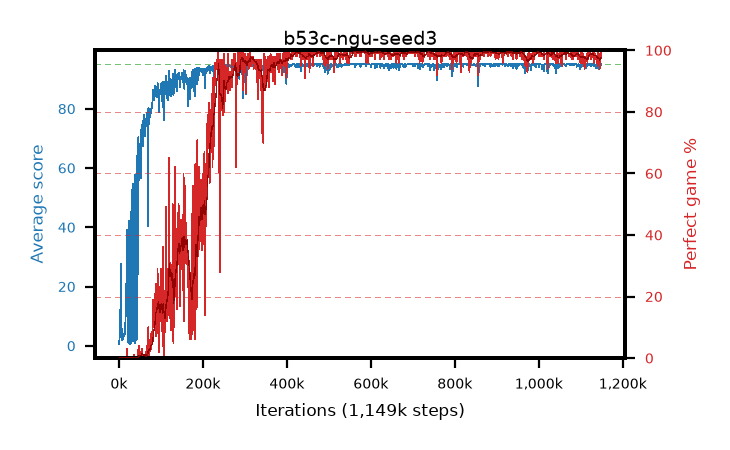
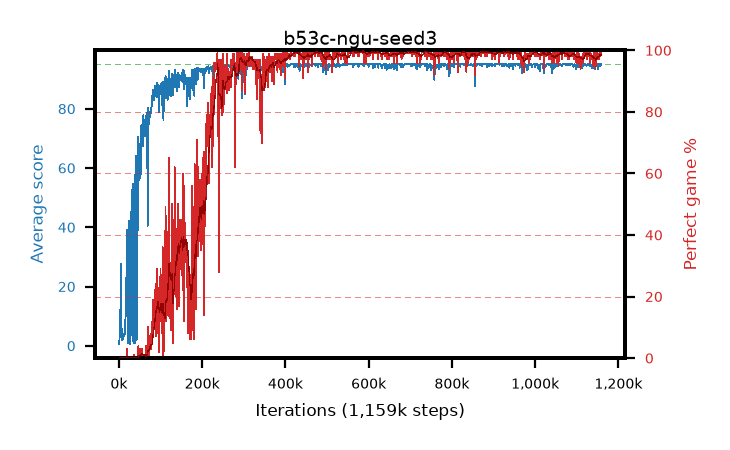
live pictures of 4 arm(s)

diff --git a/results/b53d-ngu-seed4/b53d-ngu-seed4.md b/results/b53d-ngu-seed4/b53d-ngu-seed4.md
@@ -1,6 +1,6 @@
 # b53d-ngu-seed4
 
-step **1,159,000** · 1159 evals · trailing **94.73** · peak **94.94** @1,040,000 · sef **73.9** · best30 **99.7** @1,024,000
+step **1,169,000** · 1169 evals · trailing **94.69** · peak **94.94** @1,040,000 · sef **74.2** · best30 **99.7** @1,024,000
 
 ## Config
 
@@ -80,15 +80,15 @@ step **1,159,000** · 1159 evals · trailing **94.73** · peak **94.94** @1,040,
 | 2000 | 2.39 | 1.47 | 0.0 | 8.0 | 1.286 | 0.0 | 0.4 |
 | 3000 | 6.99 | 3.31 | 0.0 | 25.0 | 5.34 | 0.0 | 0.4 |
 | ... | ... | ... | ... | ... | ... | ... | ... |
-| 1148000 | 94.95 | 94.75 | 90.0 | 95.0 | 192.656 | 99.0 | 0.4 |
-| 1149000 | 95.0 | 94.76 | 95.0 | 95.0 | 193.69 | 100.0 | 0.4 |
-| 1150000 | 94.59 | 94.75 | 54.0 | 95.0 | 192.301 | 99.0 | 0.4 |
-| 1151000 | 95.0 | 94.77 | 95.0 | 95.0 | 193.703 | 100.0 | 0.4 |
-| 1152000 | 94.47 | 94.77 | 42.0 | 95.0 | 192.186 | 99.0 | 0.4 |
-| 1153000 | 94.97 | 94.79 | 92.0 | 95.0 | 192.632 | 99.0 | 0.4 |
-| 1154000 | 93.77 | 94.78 | 18.0 | 95.0 | 189.354 | 97.0 | 0.4 |
-| 1155000 | 94.85 | 94.8 | 80.0 | 95.0 | 192.522 | 99.0 | 0.4 |
-| 1156000 | 94.54 | 94.79 | 51.0 | 95.0 | 191.216 | 98.0 | 0.4 |
-| 1157000 | 94.17 | 94.76 | 19.0 | 95.0 | 190.799 | 98.0 | 0.4 |
 | 1158000 | 94.57 | 94.75 | 52.0 | 95.0 | 192.274 | 99.0 | 0.4 |
 | 1159000 | 94.51 | 94.73 | 46.0 | 95.0 | 192.164 | 99.0 | 0.4 |
+| 1160000 | 95.0 | 94.73 | 95.0 | 95.0 | 193.713 | 100.0 | 0.4 |
+| 1161000 | 94.96 | 94.73 | 91.0 | 95.0 | 192.628 | 99.0 | 0.4 |
+| 1162000 | 94.56 | 94.73 | 51.0 | 95.0 | 192.23 | 99.0 | 0.4 |
+| 1163000 | 94.95 | 94.74 | 90.0 | 95.0 | 192.604 | 99.0 | 0.4 |
+| 1164000 | 94.73 | 94.76 | 72.0 | 95.0 | 191.434 | 98.0 | 0.4 |
+| 1165000 | 94.94 | 94.76 | 89.0 | 95.0 | 192.613 | 99.0 | 0.4 |
+| 1166000 | 93.47 | 94.71 | 14.0 | 95.0 | 190.07 | 98.0 | 0.4 |
+| 1167000 | 94.17 | 94.69 | 12.0 | 95.0 | 191.894 | 99.0 | 0.4 |
+| 1168000 | 94.74 | 94.68 | 76.0 | 95.0 | 191.438 | 98.0 | 0.4 |
+| 1169000 | 94.94 | 94.69 | 92.0 | 95.0 | 191.606 | 98.0 | 0.4 |

diff --git a/results/b53a-ngu-seed1/b53a-ngu-seed1.md b/results/b53a-ngu-seed1/b53a-ngu-seed1.md
@@ -1,6 +1,6 @@
 # b53a-ngu-seed1
 
-step **1,159,000** · 1159 evals · trailing **94.69** · peak **94.96** @643,000 · sef **75.8** · best30 **99.7** @643,000
+step **1,169,000** · 1169 evals · trailing **94.6** · peak **94.96** @643,000 · sef **76.0** · best30 **99.7** @643,000
 
 ## Config
 
@@ -80,15 +80,15 @@ step **1,159,000** · 1159 evals · trailing **94.69** · peak **94.96** @643,00
 | 2000 | 8.43 | 4.84 | 0.0 | 21.0 | 7.201 | 0.0 | 0.4 |
 | 3000 | 8.52 | 6.07 | 0.0 | 26.0 | 5.525 | 0.0 | 0.4 |
 | ... | ... | ... | ... | ... | ... | ... | ... |
-| 1148000 | 95.0 | 94.76 | 95.0 | 95.0 | 193.689 | 100.0 | 0.4 |
-| 1149000 | 94.95 | 94.76 | 90.0 | 95.0 | 192.655 | 99.0 | 0.4 |
-| 1150000 | 95.0 | 94.77 | 95.0 | 95.0 | 193.7 | 100.0 | 0.4 |
-| 1151000 | 93.73 | 94.72 | 15.0 | 95.0 | 189.354 | 97.0 | 0.4 |
-| 1152000 | 94.18 | 94.7 | 30.0 | 95.0 | 189.8 | 97.0 | 0.4 |
-| 1153000 | 94.97 | 94.72 | 92.0 | 95.0 | 192.679 | 99.0 | 0.4 |
-| 1154000 | 94.97 | 94.72 | 92.0 | 95.0 | 192.663 | 99.0 | 0.4 |
-| 1155000 | 94.19 | 94.72 | 16.0 | 95.0 | 190.799 | 98.0 | 0.4 |
-| 1156000 | 94.53 | 94.7 | 58.0 | 95.0 | 190.198 | 97.0 | 0.4 |
-| 1157000 | 95.0 | 94.7 | 95.0 | 95.0 | 193.689 | 100.0 | 0.4 |
 | 1158000 | 94.63 | 94.69 | 58.0 | 95.0 | 192.287 | 99.0 | 0.4 |
 | 1159000 | 94.93 | 94.69 | 92.0 | 95.0 | 190.511 | 97.0 | 0.4 |
+| 1160000 | 94.18 | 94.66 | 16.0 | 95.0 | 189.733 | 97.0 | 0.4 |
+| 1161000 | 94.92 | 94.66 | 91.0 | 95.0 | 190.513 | 97.0 | 0.4 |
+| 1162000 | 94.75 | 94.65 | 76.0 | 95.0 | 191.429 | 98.0 | 0.4 |
+| 1163000 | 94.47 | 94.67 | 62.0 | 95.0 | 187.996 | 95.0 | 0.4 |
+| 1164000 | 94.53 | 94.65 | 83.0 | 95.0 | 184.892 | 92.0 | 0.4 |
+| 1165000 | 94.73 | 94.64 | 86.0 | 95.0 | 189.302 | 96.0 | 0.4 |
+| 1166000 | 94.49 | 94.63 | 58.0 | 95.0 | 190.153 | 97.0 | 0.4 |
+| 1167000 | 94.61 | 94.62 | 56.0 | 95.0 | 192.257 | 99.0 | 0.4 |
+| 1168000 | 94.82 | 94.63 | 89.0 | 95.0 | 189.452 | 96.0 | 0.4 |
+| 1169000 | 93.93 | 94.6 | 15.0 | 95.0 | 188.487 | 96.0 | 0.4 |

diff --git a/results/b53c-ngu-seed3/b53c-ngu-seed3.md b/results/b53c-ngu-seed3/b53c-ngu-seed3.md
@@ -1,6 +1,6 @@
 # b53c-ngu-seed3
 
-step **1,149,000** · 1149 evals · trailing **94.69** · peak **94.93** @574,000 · sef **80.1** · best30 **99.6** @585,000
+step **1,159,000** · 1159 evals · trailing **94.63** · peak **94.93** @574,000 · sef **80.2** · best30 **99.6** @585,000
 
 ## Config
 
@@ -80,15 +80,15 @@ step **1,149,000** · 1149 evals · trailing **94.69** · peak **94.93** @574,00
 | 2000 | 6.19 | 3.38 | 0.0 | 14.0 | 2.147 | 0.0 | 0.4 |
 | 3000 | 12.02 | 6.26 | 1.0 | 18.0 | 7.496 | 0.0 | 0.4 |
 | ... | ... | ... | ... | ... | ... | ... | ... |
-| 1138000 | 94.98 | 94.71 | 94.0 | 95.0 | 191.604 | 98.0 | 0.4 |
-| 1139000 | 94.21 | 94.71 | 52.0 | 95.0 | 189.803 | 97.0 | 0.4 |
-| 1140000 | 93.87 | 94.68 | 15.0 | 95.0 | 187.426 | 95.0 | 0.4 |
-| 1141000 | 94.9 | 94.69 | 89.0 | 95.0 | 191.525 | 98.0 | 0.4 |
-| 1142000 | 95.0 | 94.72 | 95.0 | 95.0 | 193.72 | 100.0 | 0.4 |
-| 1143000 | 93.44 | 94.71 | 16.0 | 95.0 | 188.028 | 96.0 | 0.4 |
-| 1144000 | 94.81 | 94.7 | 88.0 | 95.0 | 190.383 | 97.0 | 0.4 |
-| 1145000 | 94.54 | 94.69 | 82.0 | 95.0 | 186.981 | 94.0 | 0.4 |
-| 1146000 | 94.69 | 94.7 | 64.0 | 95.0 | 192.358 | 99.0 | 0.4 |
-| 1147000 | 94.97 | 94.7 | 92.0 | 95.0 | 192.681 | 99.0 | 0.4 |
 | 1148000 | 95.0 | 94.7 | 95.0 | 95.0 | 193.714 | 100.0 | 0.4 |
 | 1149000 | 94.89 | 94.69 | 87.0 | 95.0 | 191.535 | 98.0 | 0.4 |
+| 1150000 | 94.94 | 94.7 | 89.0 | 95.0 | 192.597 | 99.0 | 0.4 |
+| 1151000 | 93.47 | 94.65 | 15.0 | 95.0 | 190.11 | 98.0 | 0.4 |
+| 1152000 | 94.02 | 94.61 | 48.0 | 95.0 | 189.61 | 97.0 | 0.4 |
+| 1153000 | 94.99 | 94.62 | 94.0 | 95.0 | 192.658 | 99.0 | 0.4 |
+| 1154000 | 94.92 | 94.63 | 90.0 | 95.0 | 190.48 | 97.0 | 0.4 |
+| 1155000 | 95.0 | 94.63 | 95.0 | 95.0 | 193.708 | 100.0 | 0.4 |
+| 1156000 | 94.9 | 94.63 | 88.0 | 95.0 | 191.517 | 98.0 | 0.4 |
+| 1157000 | 94.56 | 94.62 | 58.0 | 95.0 | 191.179 | 98.0 | 0.4 |
+| 1158000 | 95.0 | 94.62 | 95.0 | 95.0 | 193.724 | 100.0 | 0.4 |
+| 1159000 | 95.0 | 94.63 | 95.0 | 95.0 | 193.707 | 100.0 | 0.4 |
